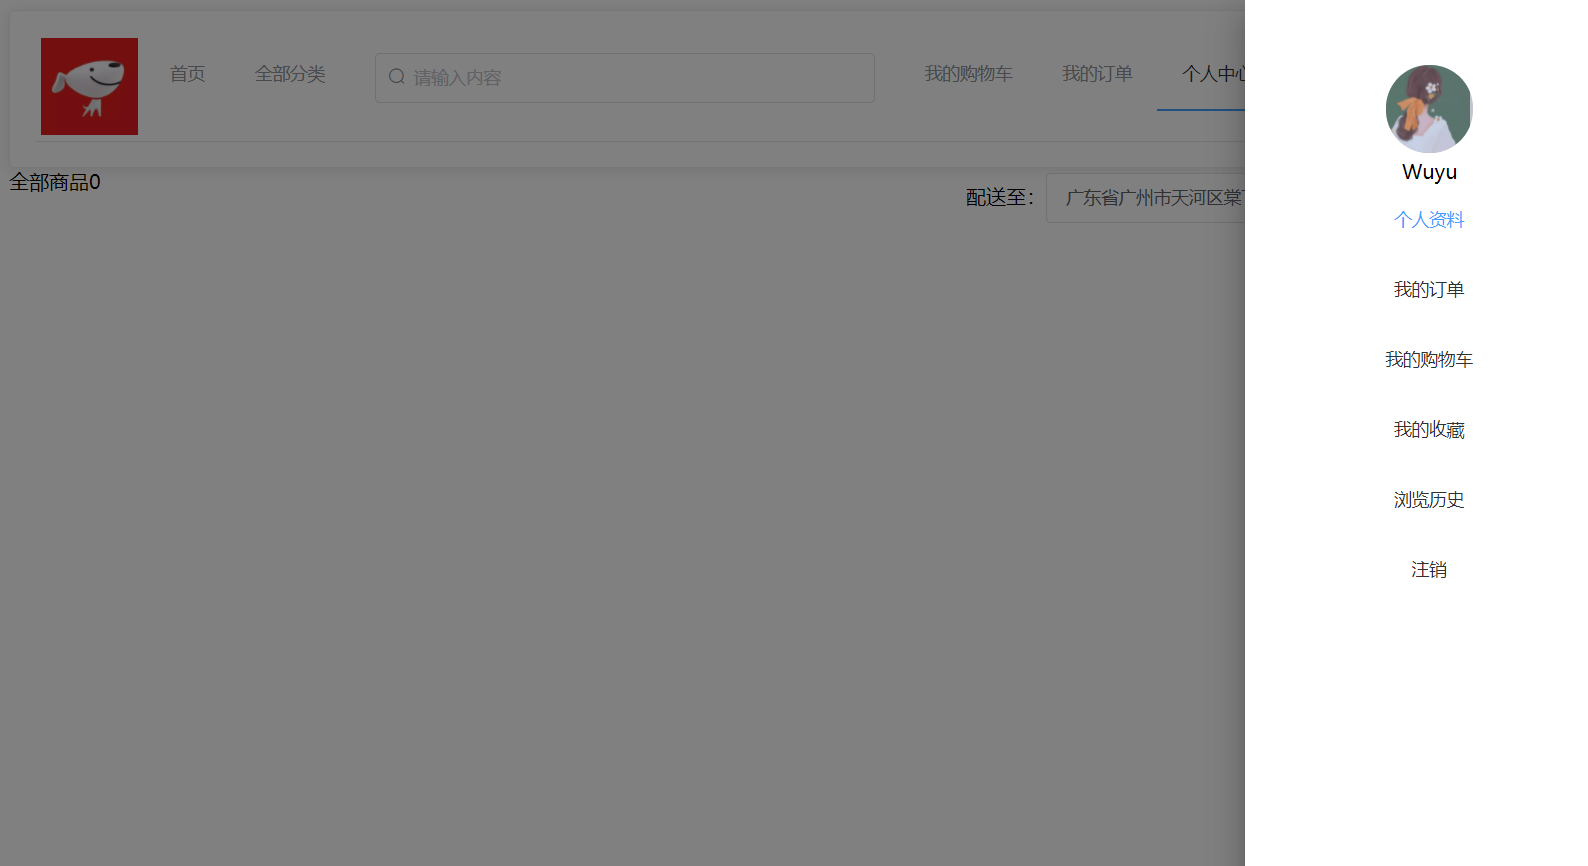
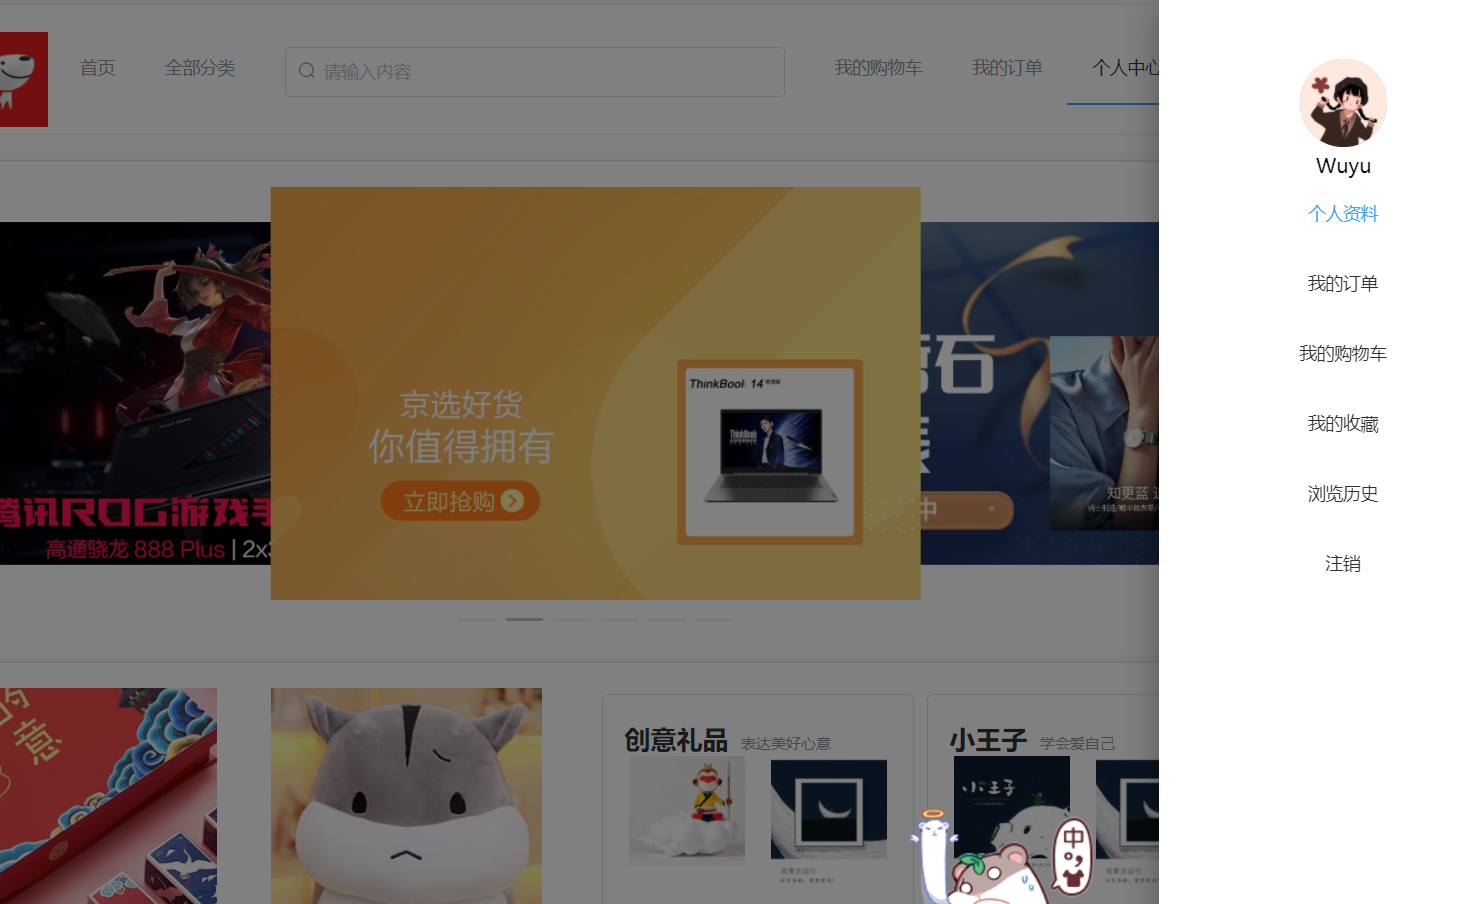
8.25 购物车完善

diff --git a/src/store/index.js b/src/store/index.js
@@ -100,7 +100,7 @@ export default new Vuex.Store({
                         password : "123",
                         realName : "无虞",
                         id: "123",
[1 lines of base64/hex data omitted]
+                        avatar:"https://i.loli.net/2021/08/26/uDUWzK8XHCIYkMw.jpg",
                         addressList:["玛卡巴卡","唔西迪西"],
                         accessToken: "kjandkawdlawkdbawnodawdlkawldkmawlkdmalwmdawdlal",
                         refreshToken: "kjandkawdlawkdbawnodawdlkawldkmawlkdmalwmdawdlal"

diff --git a/src/components/navigation.vue b/src/components/navigation.vue
@@ -54,7 +54,7 @@
             size="20%"
             :show-close="false">
             <div class="avator center">
-                <el-avatar  :size="70" :src="this.userInfo.avator"></el-avatar>
+                <el-avatar  :size="70" :src="this.userInfo.avatar"></el-avatar>
             </div>
             <div class="username center">
                 <span>{{this.userInfo.username}}</span>
